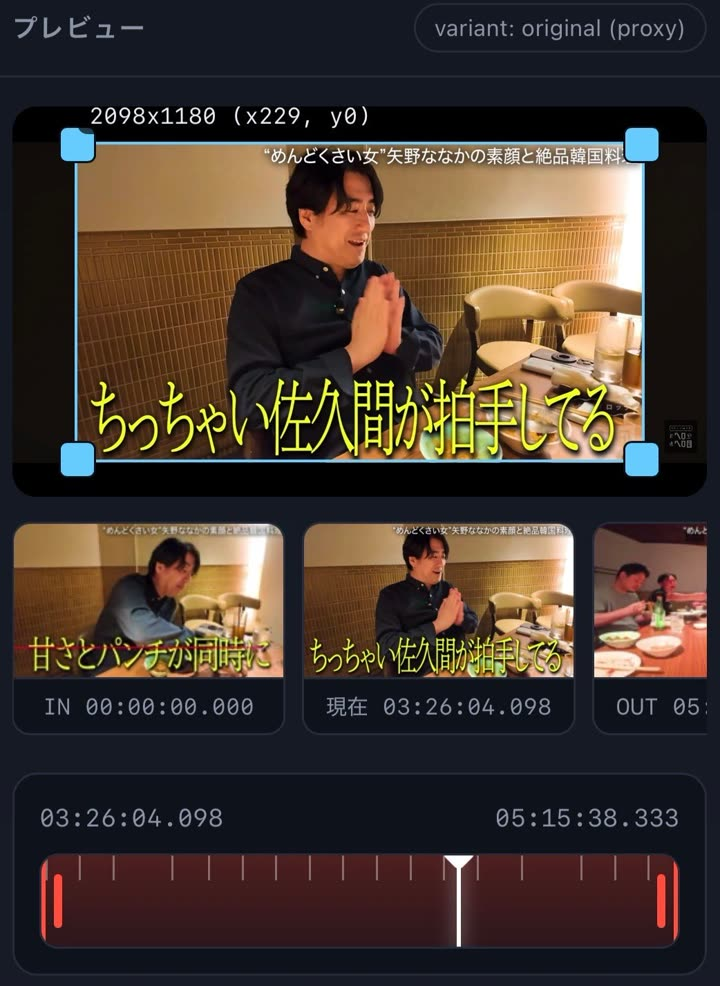
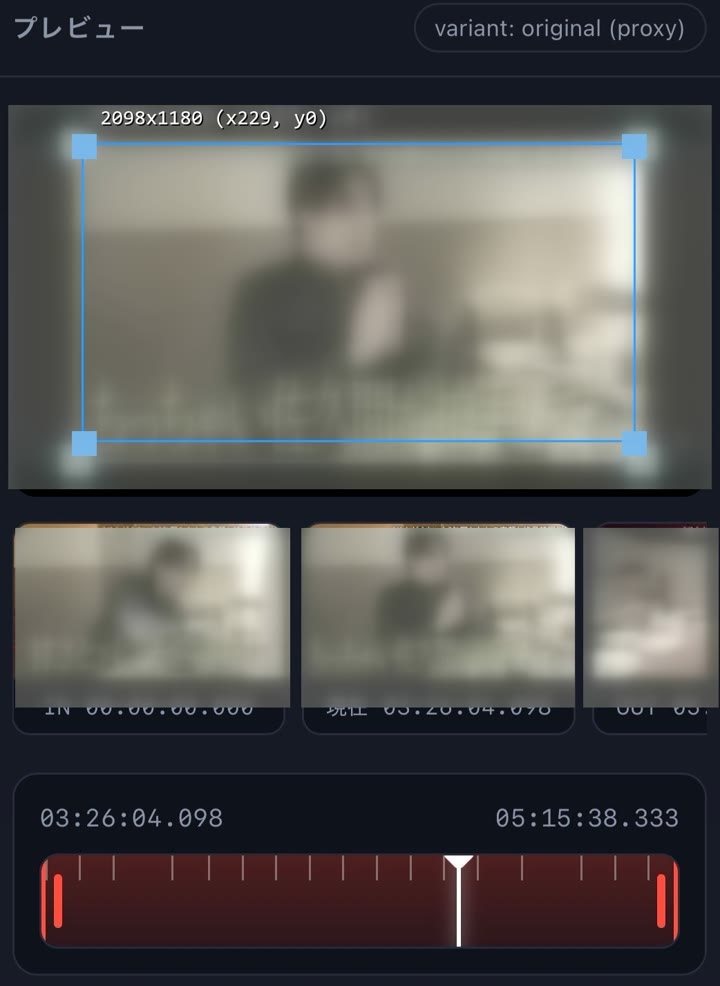
README のスクリーンショット: 映像部分にすりガラス風のぼかしを適用
- プレビュー画面の映像（メイン映像と IN/現在/OUT のサムネイル）だけをガウスぼかし＋白の薄いベールで加工し、内容が判読できないようにした
- UI 部分（クロップ枠・つまみ・サイズ表示・時刻ラベル・シークバー）は鮮明なまま。クロップ枠とサイズ表示は描き直し
- README に「映像部分はぼかし加工しています」の注記を追加

diff --git a/README.md b/README.md
@@ -29,6 +29,8 @@ Windows の PC で動かします。
 - **プレビュー画面**: 映像の上に**クロップ枠**（切り抜く範囲の枠。左上にサイズと位置を表示、例 2098x1180 (x229, y0)）があります。下に **IN / 現在 / OUT** のサムネイルがあり、一番下にシークバーがあります。シークバーの**黄色い目盛りがキーフレーム**（動画の基準となるコマ）です。赤い部分が切り出す範囲を示します。
 - **書き出し設定**: 「**無変換 / 再エンコード**」の切り替え、**出力先**（参照・検証）、コンテナ（MP4 など動画の箱となるファイル形式）、IN スナップ、OUT モード、書き出す範囲を設定します。いちばん下の緑のボタンが「**書き出しを実行**」です。
 
+> ※ スクリーンショットの映像部分は、内容が分からないようにぼかし加工しています。
+
 ---
 
 ## 動作環境
